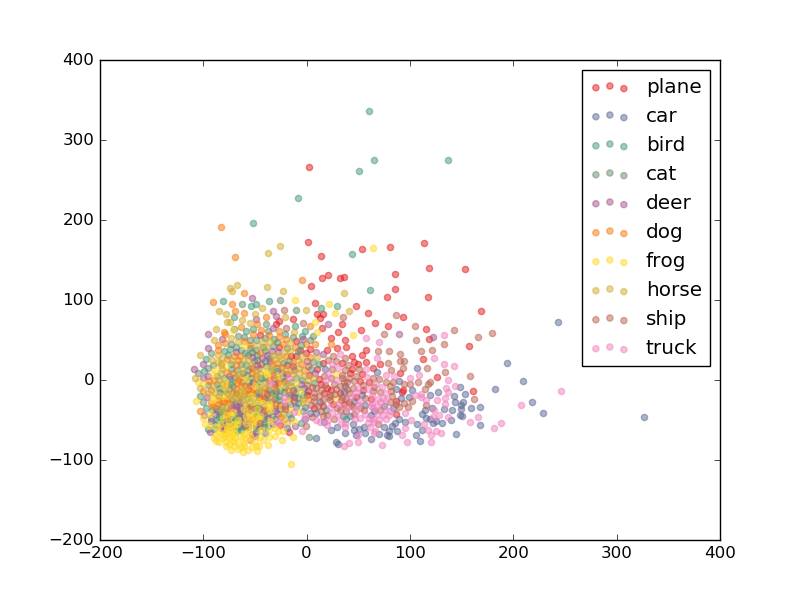
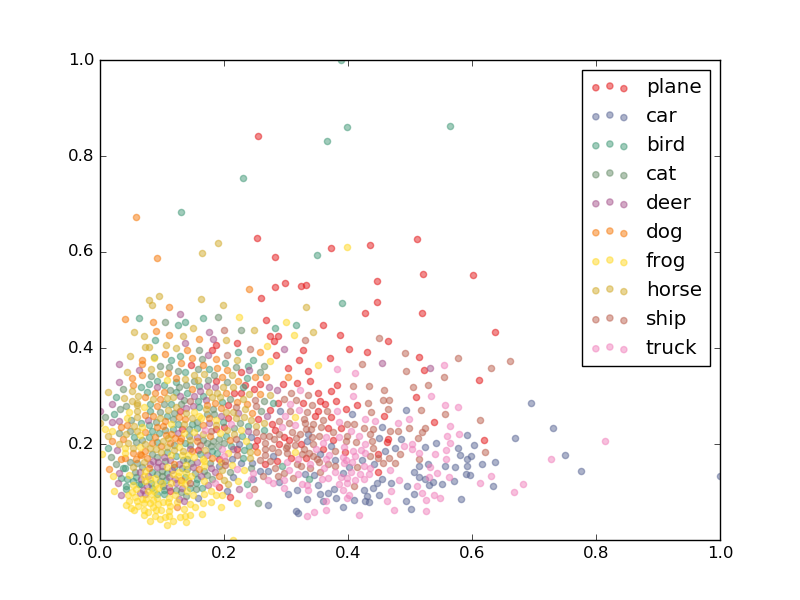
merge

diff --git a/practical_3/train_model.py b/practical_3/train_model.py
@@ -299,8 +299,7 @@ def feature_extraction():
         print("Evaluating model")
         cifar10 = cifar10_utils.get_cifar10('cifar10/cifar-10-batches-py')
         x_test, y_test = cifar10.test.images, cifar10.test.labels
-        print(x_test.shape)
-        print(y_test.shape)
+        
         l, acc, flatten, fcl1 ,fcl2, logits = sess.run([loss, accuracy,
                                         Convnn.flatten,
                                         Convnn.fcl1,
@@ -321,18 +320,20 @@ def feature_extraction():
 
 def _tnse(layer, logits, name):
         
-    print("Calculating TSNE")
-    # normalise data
-    layer[:,0] = layer[:,0] + abs(np.min(layer[:,0]))
-    layer[:,1] = layer[:,1] + abs(np.min(layer[:,1]))
-    layer[:,0] = layer[:,0]/ float(np.max(layer[:,0]))
-    layer[:,1] = layer[:,1]/ float(np.max(layer[:,1]))
-
+    print("Calculating TSNE for layer%s"%name)
+        
     # Create tsne
     tnse = TSNE(n_components=2, init='pca', random_state=0)
     # Calculate pca
     pca = tnse.fit_transform(layer)
     # Get predictions
+    # Normalise
+    pca[:,0] = pca[:,0] + abs(np.min(pca[:,0]))
+    pca[:,1] = pca[:,1] + abs(np.min(pca[:,1]))
+    pca[:,0] = pca[:,0]/ float(np.max(pca[:,0]))
+    pca[:,1] = pca[:,1]/ float(np.max(pca[:,1]))
+
+
     prediction = np.argmax(logits, axis=1)
     print("Creating figure")
     
@@ -342,10 +343,11 @@ def _tnse(layer, logits, name):
     for i in range(len(classes)):
         class_points = pca[prediction == i]
         plt.scatter(class_points[:,0], class_points[:,1], color=plt.cm.Set1(i*25), alpha=0.5)
+    plt.axis([0,1,0,1])
     plt.legend(tuple(classes))
     print("Saved image to images/%s"%name)
     plt.savefig('images/%s'%name)
-
+    plt.close()
 def initialize_folders():
     """
     Initializes all folders in FLAGS variable.
